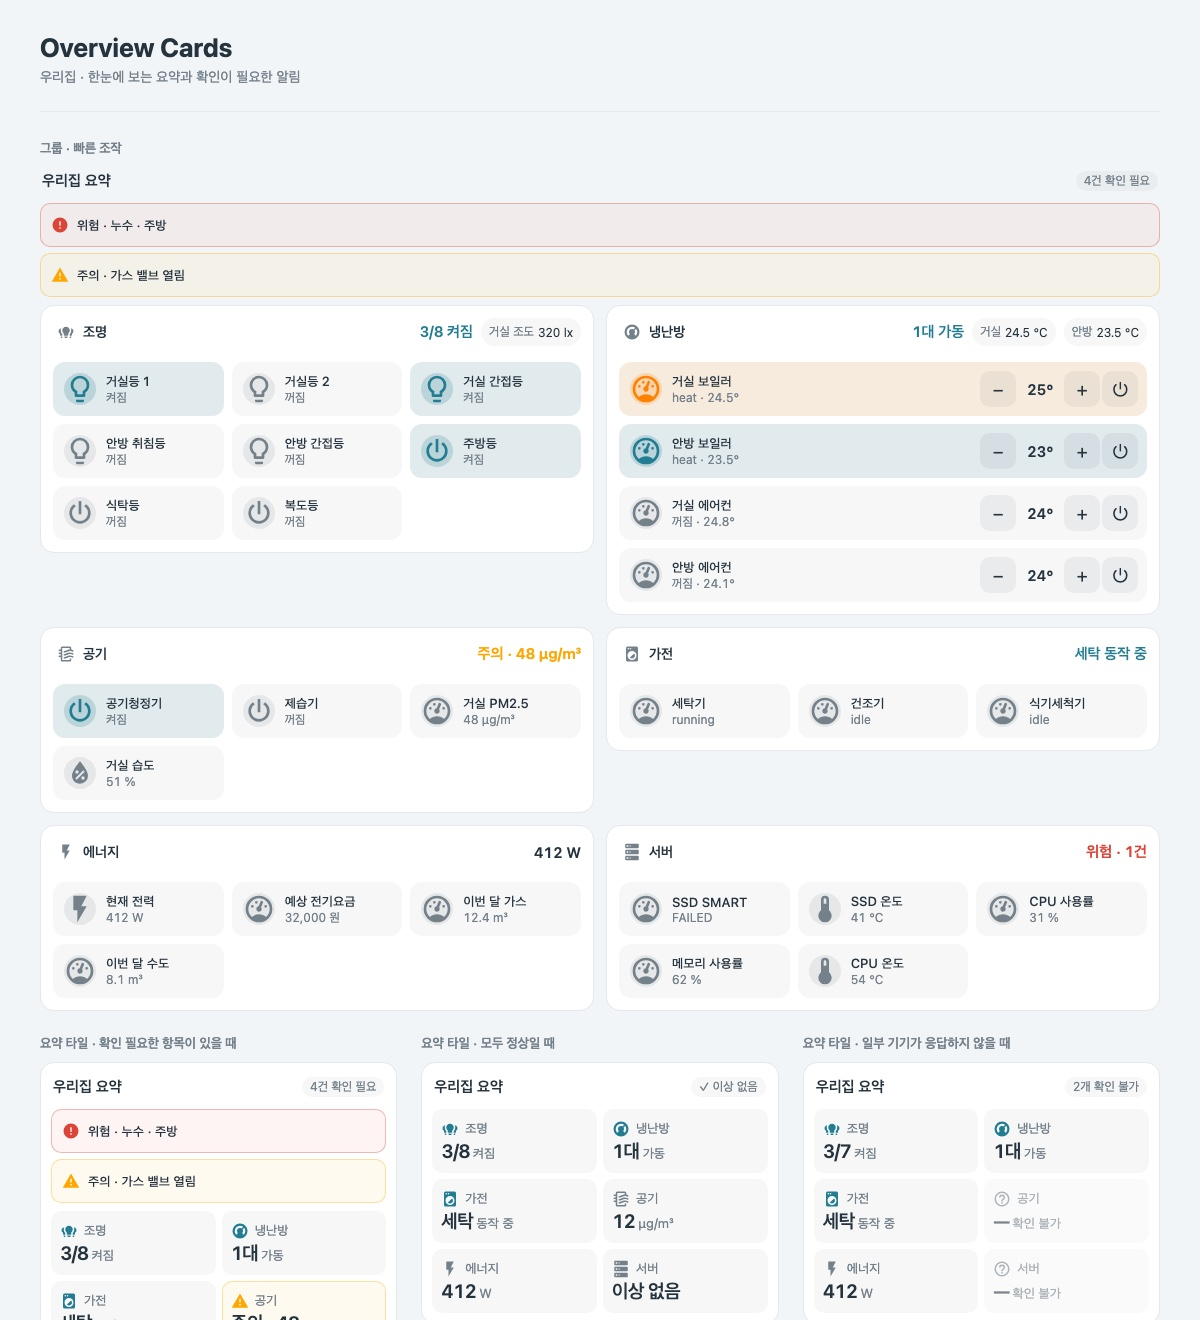
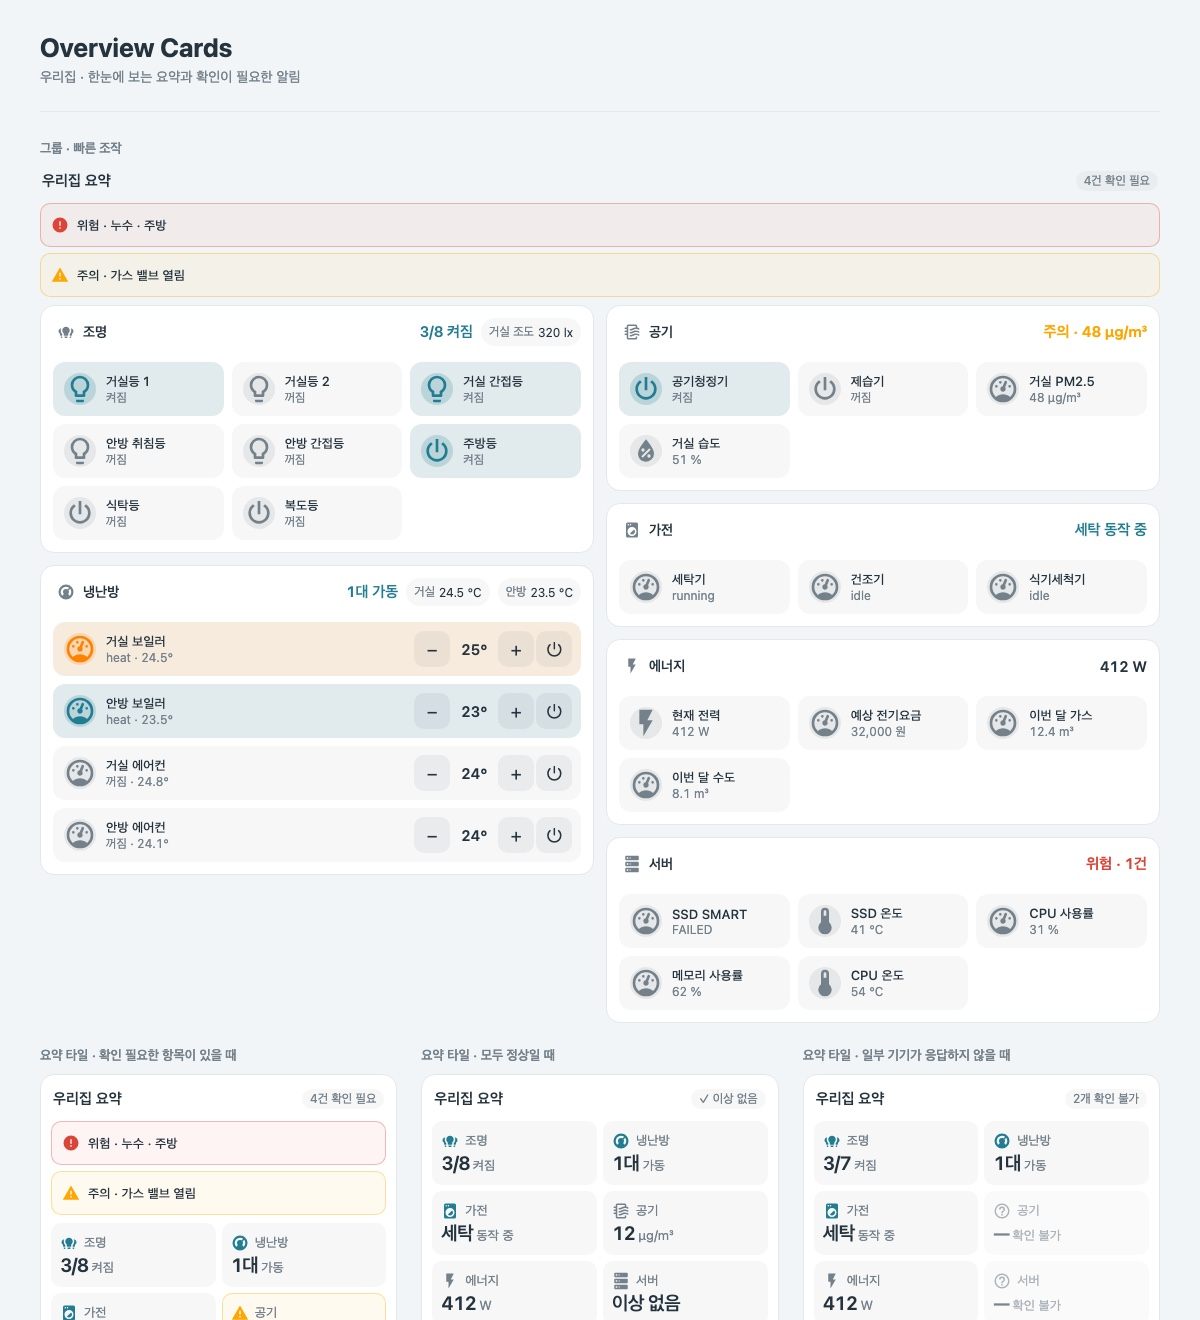
fix: fill groups into balanced columns without gaps (v0.3.4)

diff --git a/compact-overview-card.js b/compact-overview-card.js
@@ -139,17 +139,14 @@
         .main small{font-size:13px;font-weight:400;letter-spacing:0;color:var(--secondary-text-color);margin-left:3px}
         .main small:empty{display:none}.sub{font-size:12px;color:var(--secondary-text-color);overflow:hidden;text-overflow:ellipsis;white-space:nowrap;min-height:15px}
         @container(max-width:360px){.sub{display:none}.tile{padding:8px}}
-        /* Groups keep the configured order (left to right, top to bottom) in equal-width columns of at least 460px, so climate rows fit on one line. Cards keep their natural height. */
-        .sections{display:grid;grid-template-columns:repeat(auto-fill,minmax(min(460px,100%),1fr));gap:12px;margin-top:12px;align-items:start}.sections:empty{display:none;margin:0}
+        /* Groups fill equal-width columns of at least 460px from top to bottom in the configured order (like a newspaper), and the browser balances the column heights, so there are no gaps and cards keep their natural height. */
+        .sections{display:block;column-width:460px;column-gap:12px;margin-top:12px}.sections:empty{display:none;margin:0}
         :host([data-bare]) .sections{margin-top:0}
-        :host([section-columns="1"]) .sections{grid-template-columns:minmax(0,1fr)}
-        :host([section-columns="2"]) .sections{grid-template-columns:repeat(2,minmax(0,1fr))}
-        :host([section-columns="3"]) .sections{grid-template-columns:repeat(3,minmax(0,1fr))}
-        @container(max-width:639px){:host([section-columns="2"]) .sections,:host([section-columns="3"]) .sections{grid-template-columns:minmax(0,1fr)}}
-        ha-card.section{display:flex;flex-direction:column;overflow:hidden;box-shadow:none;align-self:start}
-        /* A group may span several columns (for example so climate rows fit on one line) when the card is wide enough. */
-        @container(min-width:940px){ha-card.section[data-span="2"],ha-card.section[data-span="3"]{grid-column:span 2}}
-        @container(min-width:1400px){ha-card.section[data-span="3"]{grid-column:span 3}}
+        :host([section-columns="1"]) .sections{column-count:1;column-width:auto}
+        :host([section-columns="2"]) .sections{column-count:2;column-width:auto}
+        :host([section-columns="3"]) .sections{column-count:3;column-width:auto}
+        @container(max-width:639px){:host([section-columns="2"]) .sections,:host([section-columns="3"]) .sections{column-count:1}}
+        ha-card.section{display:block;overflow:hidden;box-shadow:none;break-inside:avoid;margin:0 0 12px}
         .sec-head{display:flex;align-items:center;gap:8px;flex-wrap:wrap;min-height:44px;padding:4px 12px 0}
         .sec-title{display:flex;align-items:center;gap:8px;flex:1 1 96px;min-width:96px;padding:4px;border:0;border-radius:6px;background:transparent;text-align:left;font:inherit;font-size:14px;font-weight:600;color:var(--primary-text-color)}
         div.sec-title{cursor:default}
@@ -213,7 +210,6 @@
         if (section.icon !== undefined && typeof section.icon !== 'string') fail('icon은 문자열이어야 합니다.');
         if (section.navigation_path !== undefined && !safePath(section.navigation_path)) fail('navigation_path는 /로 시작하는 로컬 경로여야 합니다.');
         if (section.columns !== undefined && !['auto', 1, 2].includes(section.columns)) fail('columns는 auto, 1, 2 중 하나여야 합니다.');
-        if (section.span !== undefined && ![1, 2, 3].includes(section.span)) fail('span은 1, 2, 3 중 하나여야 합니다.');
         const hasItems = section.items !== undefined, hasControls = section.controls !== undefined;
         if (!hasItems && !hasControls) fail('controls 또는 items가 필요합니다.');
         if (hasItems && (!Array.isArray(section.items) || !section.items.length || section.items.some(item => !item || typeof item !== 'object' || Array.isArray(item)))) fail('items에는 compact-home-panel 항목 목록이 필요합니다.');
@@ -429,7 +425,6 @@
       const box = this.shadowRoot.querySelector('.sections'); box.replaceChildren(); this._sections = [];
       for (const section of this._config.sections ?? []) {
         const card = document.createElement('ha-card'); card.className = 'section';
-        if (section.span && section.span > 1) card.dataset.span = String(section.span);
         const head = document.createElement('div'); head.className = 'sec-head';
         const title = document.createElement(section.navigation_path ? 'button' : 'div'); title.className = 'sec-title';
         if (section.navigation_path) { title.onclick = () => this._go(section.navigation_path); title.setAttribute('aria-label', `${section.name} 열기`); }

diff --git a/README.ko.md b/README.ko.md
@@ -70,11 +70,10 @@ sections:
 | `controls` | 예* | 빠른 조작 칩(아래) |
 | `items` | 예* | 칩 아래에 표시할 `compact-home-panel` 행(Compact Cards 필요). `*` `controls`/`items` 중 하나 이상 |
 | `icon`, `navigation_path` | 아니요 | 제목 아이콘, 로컬 경로 |
-| `span` | 아니요 | `1`(기본), `2`, `3`: 카드 폭이 충분할 때(2는 940px, 3은 1400px 이상) 그룹이 그 열 수만큼 차지합니다. 더 좁은 카드에서는 무시합니다 |
 | `summary` | 아니요 | `name` 없는 타일 사양(`count`, `climate`, `status`, `value`, `health`). 헤더에 굵게, 수준 색상으로 표시 |
 | `badges` | 아니요 | `[{ entity, name }]` 요약 옆 센서 값. 누르면 상세 정보 |
 
-최상위 `section_columns`(`auto`, `1`, `2`, `3`)는 그룹 열 수입니다. `auto`는 460px 이상 폭의 그룹을 가로로 채우고 설정한 순서대로(왼쪽에서 오른쪽, 위에서 아래) 폭이 같은 열(최소 460px)에 배치해 compact 냉난방 행이 한 줄에 들어가며, 카드는 원래 높이를 유지하고 모바일에서는 1열입니다. PC에서 전체 폭을 쓰려면 Home Assistant 섹션 뷰에서 이 카드가 들어간 섹션에 `column_span`(예: `3`)을 지정하세요.
+최상위 `section_columns`(`auto`, `1`, `2`, `3`)는 그룹 열 수입니다. `auto`는 460px 이상 폭의 그룹을 가로로 채우고 설정한 순서대로 폭이 같은 열(최소 460px)에 위에서 아래로 채워(첫 열부터 차례로) compact 냉난방 행이 한 줄에 들어가고, 열 높이는 자동으로 균형을 맞추며 빈틈이 없습니다. 모바일에서는 1열입니다. PC에서 전체 폭을 쓰려면 Home Assistant 섹션 뷰에서 이 카드가 들어간 섹션에 `column_span`(예: `3`)을 지정하세요.
 
 ### 빠른 조작 칩
 

diff --git a/README.md b/README.md
@@ -72,11 +72,10 @@ Prefer a controls-free summary grid? Use `tiles` instead of `sections`; see [the
 | `controls` | yes* | Quick-control chips (below) |
 | `items` | yes* | Optional `compact-home-panel` rows shown under the chips (needs Compact Cards). `*` at least one of `controls`/`items` |
 | `icon`, `navigation_path` | no | Title icon and local path |
-| `span` | no | `1` (default), `2` or `3`: let the group take that many columns when the card is wide enough (940px for 2, 1400px for 3). Ignored on narrower cards |
 | `summary` | no | A tile spec without `name` (`count`, `climate`, `status`, `value`, `health`); shown bold in the header, coloured by level |
 | `badges` | no | `[{ entity, name }]` readings next to the summary; tap opens the entity |
 
-Top-level `section_columns` (`auto`, `1`, `2`, `3`) sets the group columns. `auto` fills the width with groups at least 460px wide, in the configured order (left to right, top to bottom) in equal-width columns of at least 460px, so Compact climate rows stay on one line; cards keep their natural height and on mobile it is a single column. Put the card in a section with `column_span` (for example `3`) in Home Assistant's sections view to use the full width on a PC.
+Top-level `section_columns` (`auto`, `1`, `2`, `3`) sets the group columns. `auto` fills the width with groups at least 460px wide, from top to bottom in the configured order in equal-width columns of at least 460px (newspaper style: the first columns take the first groups), so Compact climate rows stay on one line; column heights are balanced automatically with no gaps, and on mobile it is a single column. Put the card in a section with `column_span` (for example `3`) in Home Assistant's sections view to use the full width on a PC.
 
 ### Quick-control chips
 

diff --git a/docs/compact-overview-card.md b/docs/compact-overview-card.md
@@ -60,12 +60,11 @@ sections:
 | `items` | 예* | — | 칩 아래에 표시할 `compact-home-panel` 행([해당 카드](https://github.com/eigger/hass-compact-cards/blob/main/docs/compact-home-panel.md)와 동일, Compact Cards 필요). `*` 둘 중 하나 이상 |
 | `icon` | 아니요 | `mdi:circle-outline` | 제목 아이콘 |
 | `navigation_path` | 아니요 | 없음 | `/`로 시작하는 로컬 경로 |
-| `span` | 아니요 | `1` | `1`, `2`, `3`. 카드 폭 940px 이상(3은 1400px 이상)에서 그룹이 여러 열을 차지합니다. 좁은 카드(모바일)에서는 무시합니다 |
 | `columns` | 아니요 | `auto` | `items`의 열 수 `auto`, `1`, `2` |
 | `summary` | 아니요 | 없음 | `name` 없는 타일 사양. 헤더에 `3/8 켜짐`, `주의 · 48 µg/m³` 형태로 표시 |
 | `badges` | 아니요 | 없음 | `[{entity, name}]`. 헤더의 센서 값. 누르면 상세 정보 |
 
-그룹은 설정한 순서대로(왼쪽에서 오른쪽, 위에서 아래) 폭이 같은 열에 배치하고 카드는 원래 높이를 유지합니다. 열 폭은 최소 460px이라 compact 냉난방 행이 한 줄에 들어가고, 모바일에서는 1열입니다.
+그룹은 설정한 순서대로 폭이 같은 열에 위에서 아래로(첫 열부터 차례로) 채우고 열 높이는 자동으로 균형을 맞춥니다. 카드 사이에 빈틈이 없고, 열 폭은 최소 460px라 compact 냉난방 행이 한 줄에 들어가며, 모바일에서는 1열입니다.
 
 ## 빠른 조작 칩
 

diff --git a/CHANGELOG.md b/CHANGELOG.md
@@ -2,6 +2,10 @@
 
 ## Unreleased
 
+## 0.3.4 — 2026-10-31
+
+- Fill groups into equal-width columns top to bottom in the configured order (balanced heights, no gaps between or below cards), replacing the row-by-row grid that left blank space under short groups. The optional `span` is removed.
+
 ## 0.3.3 — 2026-10-31
 
 - Restore predictable layout: groups follow the configured order (left to right, top to bottom) in equal-width columns of at least 460px instead of being packed and reordered. Cards keep their natural height. Climate rows from Compact Cards now fit on one line in a single column, so the automatic two-column span for climate groups is removed; `span` remains optional (2 from 940px, 3 from 1400px).
